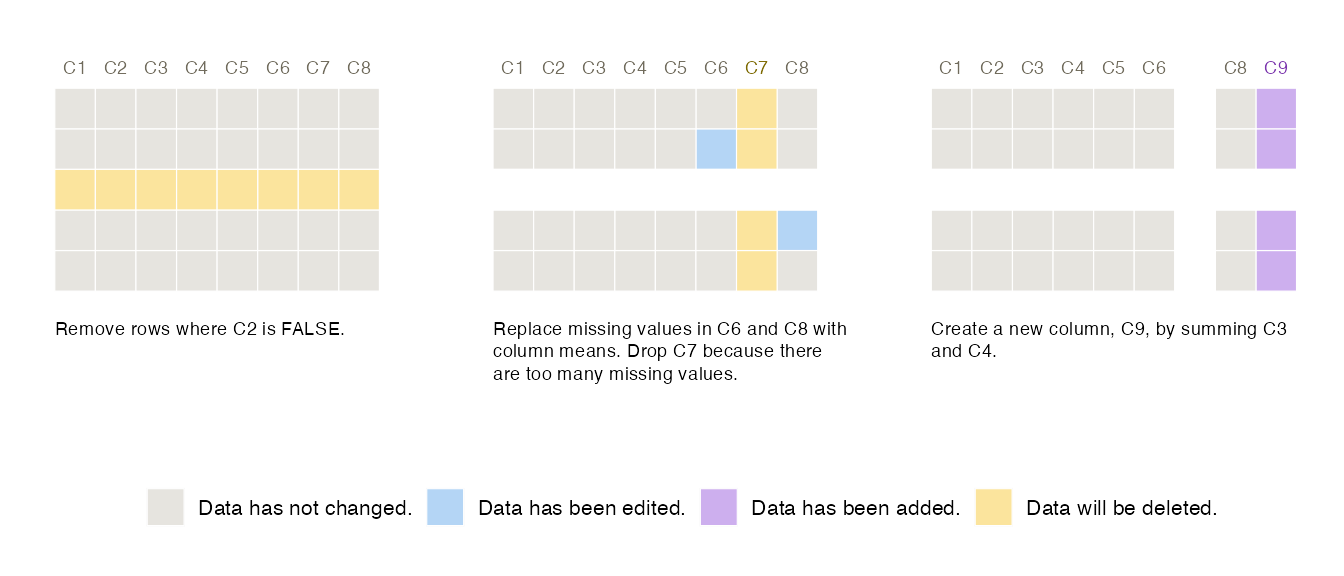
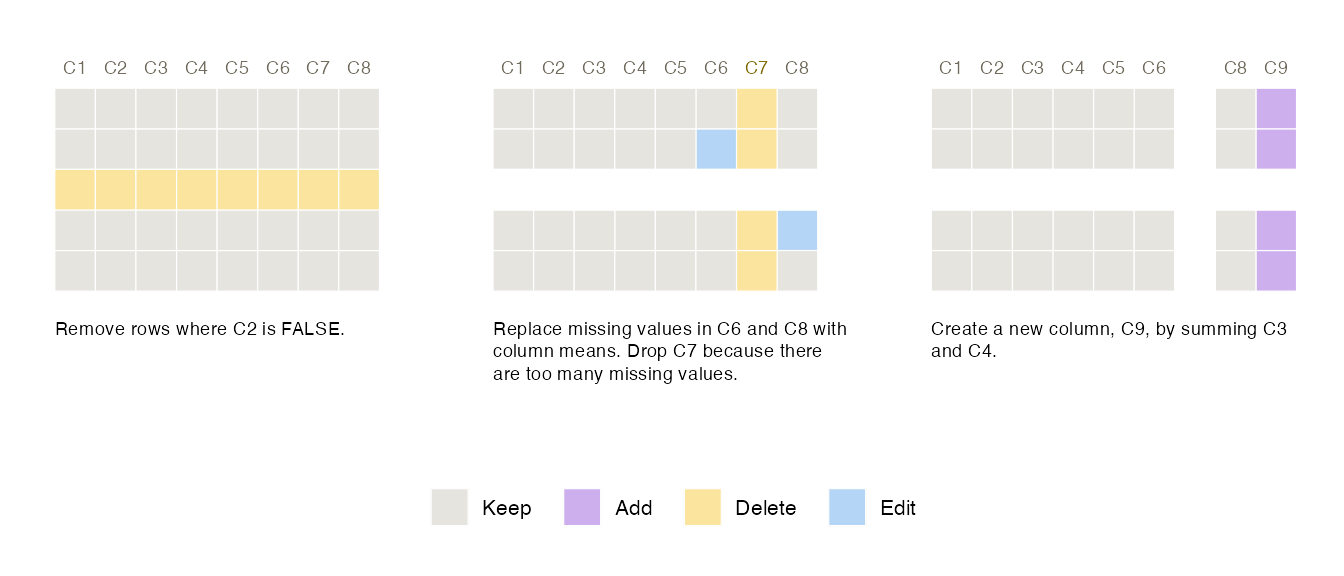
change colour legend

Changed region(s): [[0.0938, 0.8438, 0.9062, 0.9375], [0.9375, 0.0938, 0.9688, 0.125]]

diff --git a/docs/index.html b/docs/index.html
@@ -104,7 +104,7 @@
 <span></span>
 <span><span class="fu"><a href="reference/Smallset_Timeline.html">Smallset_Timeline</a></span><span class="op">(</span>data <span class="op">=</span> <span class="va">s_data</span>,</span>
 <span>                  code <span class="op">=</span> <span class="fu"><a href="https://rdrr.io/r/base/system.file.html" class="external-link">system.file</a></span><span class="op">(</span><span class="st">"s_data_preprocess.R"</span>, package <span class="op">=</span> <span class="st">"smallsets"</span><span class="op">)</span><span class="op">)</span></span></code></pre></div>
-<p><img src="reference/figures/quick-start-example-1.png"></p>
+<p><img src="reference/figures/quick_start_figure.png"></p>
 </div>
 <div class="section level2">
 <h2 id="structured-comments">Structured comments<a class="anchor" aria-label="anchor" href="#structured-comments"></a>

diff --git a/README.md b/README.md
@@ -54,7 +54,7 @@ Smallset_Timeline(data = s_data,
                   code = system.file("s_data_preprocess.R", package = "smallsets"))
 ```
 
-![](man/figures/quick-start-example-1.png)
+![](man/figures/quick_start_figure.png)
 
 ## Structured comments
 
@@ -63,16 +63,16 @@ below, s_data_preprocess.R. Structured comments were added to it,
 informing `smallsets` what to do.
 
 ``` r
-# smallsets start s_data caption[Remove rows where C2 is FALSE.]caption
+# smallsets snap s_data caption[Remove rows where C2 is FALSE.]caption
 s_data <- s_data[s_data$C2 == TRUE,]
 
-# smallsets snap 7 s_data caption[Replace missing values in C6 and C8 with column
-# means. Drop C7 because there are too many missing values.]caption
+# smallsets snap +2 s_data caption[Replace missing values in C6 and C8 with 
+# column means. Drop C7 because there are too many missing values.]caption
 s_data$C6[is.na(s_data$C6)] <- mean(s_data$C6, na.rm = TRUE)
 s_data$C8[is.na(s_data$C8)] <- mean(s_data$C8, na.rm = TRUE)
 s_data$C7 <- NULL
 
-# smallsets end s_data caption[Create a new column, C9, by summing C3 and
+# smallsets snap +1 s_data caption[Create a new column, C9, by summing C3 and
 # C4.]caption
 s_data$C9 <- s_data$C3 + s_data$C4
 ```

diff --git a/index.md b/index.md
@@ -35,7 +35,7 @@ Smallset_Timeline(data = s_data,
                   code = system.file("s_data_preprocess.R", package = "smallsets"))
 ```
 
-![](man/figures/quick-start-example-1.png)
+![](man/figures/quick_start_figure.png)
 
 ## Structured comments
 
